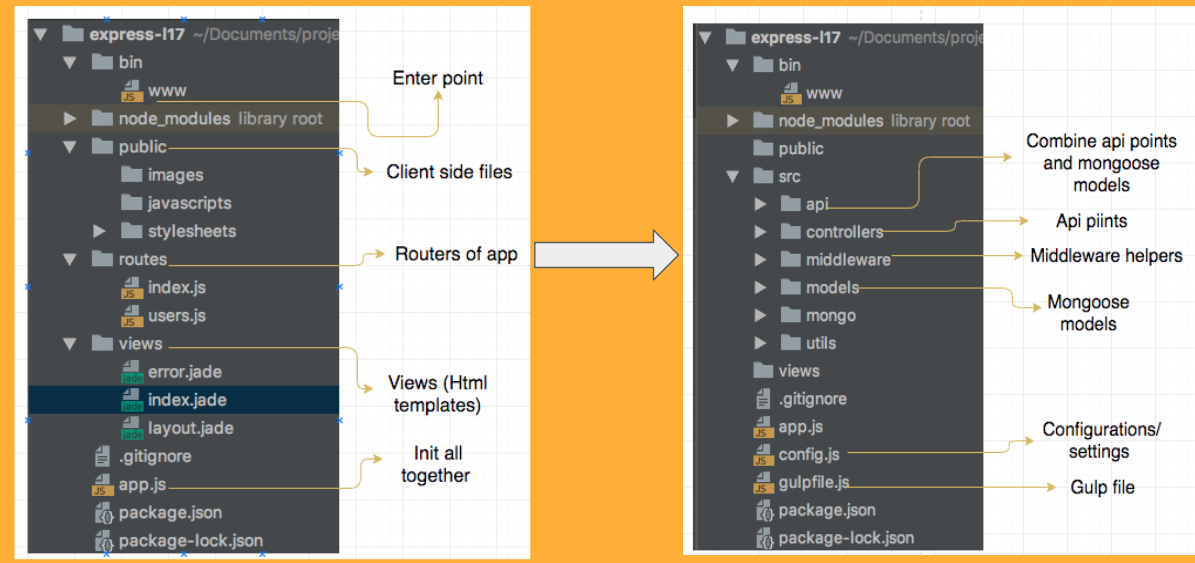
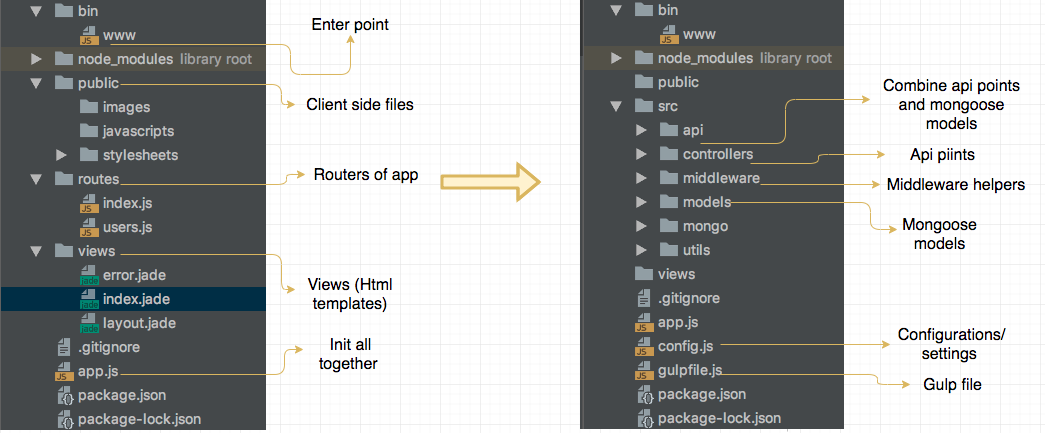
add express-boilerplate v.0.2

diff --git a/express-prof/README.md b/express-prof/README.md
@@ -1,295 +1,99 @@
-# Express Api професійно
+# Api
+Більшість свого часу програмісти прцюють із кодом проектів які зачастую розроблялися кимось до них або ж він створювався достатньо давно.  Тому часто коли приходиться пчинати проект з нуля часто виникає ряд питаня. З чого почати? Як це все заставити працювати? Чому я це повининен робити? 
+В даній статті я хотів поділитися тим як в кілька кроків настроїти boilerplate для API невеличкого forum-like application based on express
 
-[Express js](http://expressjs.com/) це чудовий фрейморк для розробки Rest Api на мові програмування java script. Він працює під управління [node js](https://nodejs.org/en/), який прекрасно підходить для додаткі обробки потоків вводу/виводу. Або ж  [rest server](https://en.wikipedia.org/wiki/Representational_state_transfer). Про те як почати писати на express js уже написано достатньо статей уроків і туторіалів. В цій статті я б хотів поділитися своїм досвідом у організаці express rest api додатку та відповісти на кілька намтупних запитань.
+## API for the forum-like application. Where should I begin?
+> This part refers to the preparation processes and where a developer should start when building a forum-like app.
 
-- Як організувати структуру rest Api?
-- Як обробляти помилки та виключення?
-- Як організувати rest запити?
+Перш за все слід обдумати функціональні вимоги поставленні перед вашим додатком. В залежності від них структура може мінятися. Наприклад чи потрібний у вашому додатку механізм авторизації чинію. Чи буде шттеграція із іншими сервісами чи ні. Всі інші додаткові функціональні вимоги типу генерації звітів (pdf, xml, csv) відправка емейлів тощо.
 
-## Структура rest api
-Розробка rest api це посуті опис шляхів (routs) за якими до вашого сервера буду звертатися клієнти а можливо інші сервіси. Тому їх організація та інтуїтивно зрозумілий опис є надзвичано важливими. Великий rest api серрвер може виконувати безліч операцій.  Велика помилка яку часто роблять розробники це створення окремих роутів на кожну операцію. Це призводить до неконтрольованого росту роутів. Але ж про ці всі роути слід знати (на що здатен сервер) іншим розробникам. Це добре якщо кожний роут задукоментований. А якщо ні це може призвести до великої путанини і великиз затрат часу на розуміння іншими  вашого api.
+- функціональні вимоги вашого додатку
+- дані якими він оперуватими 
+- методи розробки
+## Can boilerplate be perfect?  
+> We plan to unveil here code organization and folders structuring best practices. Tips (based on personal experience) with examples which others might find useful.
 
-Щоб уникнути цього та мінімізувати кількість роутів у вашому api старайтеся слідувати логіці rest. У rest є 4 основні види запитів __GET__, __POST__, __UPDAE__, __DELETE__. Старайтеся позиціонувати кожну операцію їз цими запиами. Наприклад якщо вам слід оновти якусь сутність використувуйте запити __UPDATE__ якщо удалити __DELETE__.
-Також старайтеся позиціонувати кожеш ваш роут з моделлю бізнес логіки. Нижче наведена таблиця і 5 роутів для обробки одніїє моделі бізнес логіки.
-
-| Route                   |  HTTP Verb | Description               |
-|-------------------------|------------|---------------------------|
-|`/api/v1/models/`        |__GET__     | Get list of models        |
-|`/api/v1/models/:modelId`|__GET__     | Get  model item           |
-|`/api/v1/models/`        |__POST__    | Crete model Item          |
-|`/api/v1/models/:modelId`| __PUT__    | Update model Item         |
-|`/api/v1/models/:modelId`| __DELETE__ | Remove model item         |
-
-У таблиці наведено варіанти роутів та відповідні методи, щоб забезпечити CRUD (create, read, update, delete) над певною моделлю. Дортримуючись даного підходу для кожної моделі і не створюючи додаткових роутів ви значно скоротете ваше Api та покращете його розуміння дл інших розробників.
-#### Params
-__А як же додаткові параметри?__ Припустим нам необхідно вернути список моделей відсорованих та пофільтрованих. Для цього не варто створювати додатковий роут типу `/api/v1/models/sorted/:param`. Достатньо використати __qery__ параметри. І роут матиме наступний вигляд `/api/v1/models?sort=name`. Таких параметрів можне буте набагато більше. Вони є не обовязковими тому їх використання дозволить вам обробити кілька операцій на одному роуті. Можна подумати що таку стрічку набагато важче формувати на клієнті проте ні. Як це зробити коректно я покажу нижче.
-### Code organization
-Кілька прорад для розробників по оргацізації коду.
-- починайте кожен ваш роут `/api/v1/`
- можливо у майбутньому прийдеться переписати ваше api зберігши функціональність старого на деякий час.
-- Розділяйте моделі та контроллери
-  Моделі це обєкти бізнес логіки їх слід зберігати у паці models. Контроллери містять бізнес логіку роутів пака controllers.
-- Не збивайте роути однієї модделі в один файл.
-  створіть окрему папку `modelName` для кожної сутності та для кожної операції GET, POST, DELETE створюйте окремий файл. Наприклад файл `controllers/notifications/index.js` міг мати наступний вигляд.
- ```
-const fetchNotifications = require('./fetch-notifications');
-const updateNotification = require('./update-notification');
-const removeNotification = require('./remove-notification');
-/**
-* Provide Api for Investors (user with articles)
- **/
-
-module.exports = ({ config, db }) => {
-  api.get('/', authenticate, fetchNotifications({ config, db }));
-  api.put('/:notificationId',authenticate, updateNotification({ config, db }));
-  api.delete('/:notificationId', authenticate, removeNotification({ config, db }));
-  return api;
-};
+Перш за все потрібно розробити структуру вашого boilerplate. Це можна робити вручну створюючи кожен файл. Можна використати утиліти який в інтерненті є придестатньо та змінити його для сфоїх потреб. Ми підем другим шляхом і використаємо утиліту [express-generator](http://expressjs.com/uk/starter/generator.html). Отже приступимо до розробки boilerplate for API of forum-like application. 
+__Крок 1__ Генерація структури проекту
+Установіть express-generator та створіть дерикторію вашого проекту.
 ```
-
-- Документуйте ваші контроллери.
-- Виность додатковий код  у відповідні пакпки 'utils', 'helpers'
-
-#### Documentation
-Один з найважливіших елементів розробки rest api є його документація. Оскільки таким api можуть користуватися як інші розробники (front-end, movile developres), так і інші сервіси тому їм необхідно знати як з ним взаємодіяти. Тому дотримуйтеся наступних порад.
-- __Ввизначіть для чого це Api і хто ним буде користуватися.__
-Від цього залежить конкретний тип документації. Як що це внутрішнє api проекту тоді можна документувати ваші роути як у файлах README в середені вашого репозиторію, так і у самих фйлах `controllers/model/index.js`. Нижче наведено невеликий приклад документації.
+npm install express-generator -g
+express <your-project-name>
 ```
-/**
- Provide Api for Model
+Оскільки express-generator генерує структуру яка не зовсім задовільняє наші потреби її слід дещо змінити. Нище показано наглядний приклад того які зміни слід зробити. 
+![](https://github.com/VolodymyrTymets/articles/blob/express-boilerplate/express-boilerplate/img/fig1.png?raw=true)
 
-  Model list  GET /api/v1/models
-  @header
-         Authorization: Bearer {token}
-  @optionalQueryParameters
-         param1 {String} - description
-         param2 {String} - description
-
-  Model create  POST /api/v1/models
-  @header
-         Authorization: Bearer {token}
-  @params
-         param1 {string}
-         param2 {boolean}
-**/
-```
-Якщо ж це api з яким будуть взаємодіяти інші сервіси, слід задуматися над створення повної, відсортованої та зручної у користуванні. Ось один приклад чудової документації [google calendar api](https://developers.google.com/google-apps/calendar/v3/reference/).
-
-- __Документуйте кожен свій rout.__
-  Який смисл в існуванні роута якщо про нього не знають інші. Якщо користувач вашого api не знатиме про існування того чи іншого роута він просто вирішить що у вас не має такого функціоналу. Тому документуй кожен свій роут.
-- __Документуйте роут у момент його створення__
- Не відкладайте на потім, щоб не забути про нього чи його параметри.
-
-
-## Обробка помилок
-У rest серрвера є набір загальноприйнятих [помилок](http://www.restpatterns.org/HTTP_Status_Codes), тому не варто вигадувати свої. Краще один раз написати свій обробник подій і використовувати його ніж кожному роуті займатися цим. У цьому може допомогти пакет [rest-api-errors](https://www.npmjs.com/package/rest-api-errors). Спершу слід написати загалтний обробник:
+Злівої сторони наведено boilerplate зшгенерований а з правої той який слід зробити. Давайте розглянемо структуру проекту детальніше
+ - `controllers` - тут слід зберігати всі ваші Api endpoints
+ - `models` - тут слід зберігати всі моделі даних 
+ - `api` -  тут знаходиться взаємодія ваших даних з вашими Api endpoint (детальніше нижче) 
+ - `utils` -  тут знаходиться весь допоміжний код додатку (відправка емейлів генерування pdf ets)
+ -  `middleware` -  тут знаходиться всі express middleware додатку
+ -  `mongo or db or <yourDatabaseName>` -  тут знаходиться уся робота з вашою бащою даних
+ -  `config or .env` -  усі налаштування вашого додатку краще зберігати в окремому файлі (це може бути як .js .json or .env)
+ 
+Дана структура дозволить вам зберігати ваш код в логічному порядку і дозволить швидко зорієнтуватися. своєрідним клеєм який дозволить звязати усі файли виступатими файл `app.js`
 
 ```
-const { APIError, InternalServerError, Unauthorized } = require('rest-api-errors');
-const { STATUS_CODES } = require('http');
-const winston = require('winston');
-module.exports = (err, req, res, next) => {
-  let error = err instanceof APIError ? err : new InternalServerError();
+const express = require('express');
 
-  if(process.env.NODE_ENV !== 'production') {
-    winston.log('error', '-----> Unknown server error...');
-    winston.log('error', err);
-  }
-  res
-    .status(error.status || 500)
-    .json({
-      code: error.code || 500,
-      message: error.message || STATUS_CODES[error.status],
-    });
-};
-```
+const config = require('./config');
+const api = require('./src/api/index');
+const { mongoManager } = require('./src/mongo');
 
-та використати його в exoress
-```
-const errorHandler = require('./utils/error-handler');
 const app = express();
-app.use(errorHandler);
-```
+mongoManager.connect();
 
-Тепер у любому контроллері можна просто ініційовувати помилку
-```
-const { MethodNotAllowed } = require('rest-api-errors');
+// api routes v1
+app.use('/api/v1', api(config));
 
-api.use('/account', (req, res, next) => {
-....
-if(!user) {
-  throw new Unauthorized(401, 'Unauthorized');
- }
+module.exports = app;
+```
+Тепер для запуску вашого додатку достаттно інстаювати пакети `npm i` запустити `node ./bin`. Або дописати дану команту в npm script. 
+
+## Dealing with data
+> We're planning to show here the example of how you can get access to the data, using MongoDB.
+
+Тепер настав час перейти до оголошення наших моделей. Оскільки для зберігання даних ми використовуємо [mongo](https://www.mongodb.com/) базу даних то побудуємо наші моделі за допомогою [mongoose](http://mongoosejs.com/docs/populate.html).
+> todo: структура бази даних ?
+
+Деректорія models виглядатиме наступним чином.
+
+![](https://github.com/VolodymyrTymets/articles/blob/express-boilerplate/express-boilerplate/img/fig2.png?raw=true)
+
+- `schema.js` - це схема моделі детальніше [тут](http://mongoosejs.com/docs/schematypes.html)
+- `model.js` - це саме обєднання mongoose mмоделі та схеми. Це зроблено в окремих файлах тому що mongoose надає можливість розширяти ваші моделі різними методами і хуками. Тримати усе це + схема, яка сама по собі здатна розростатися чимало, призведе до того що ваш файл займатиме 500+ строчок. А це не дуже добре.
+```
+// models/answers/model.js
+const mongoose = require('mongoose');
+const { schema } = require('./schema');
+// add hooks here
+schema.pre('save', function() {
+  return doStuff().
+    then(() => doMoreStuff());
 });
-
+const Answer = mongoose.model('Answer', schema);
+module.exports = { Answer };
 ```
+> todo: щось ще дописати 
+## What about routes? 
+> Routes structuring. Organization, documentation, and description tips and tricks.
 
-### Permission checker
-Не рідко виникає необхідність обмежувати користувачів у певних діях. Наприклад менеджери можуть мати набагато більше прав ніж прості користувачі. Далі показано як написати пройти та компачтний permission checker ось такого вигляду.
+## Routes and data together. How to not get lost
+Тепер перейдем до роутів або контроллерів. Контроллери також слід поділити у відповідності до ваших моделей так як зображено нижче.
 
-```
- import { hasPermissionTo, actions } from '../'
- api.use('/account', (req, res, next) => {
-     const user = getUser();
-     if (!hasPermissionTo(actions.GET_USER, user)) {
-        throw new MethodNotAllowed();
-     }
-});
-```
+![](https://github.com/VolodymyrTymets/articles/blob/express-boilerplate/express-boilerplate/img/fig3.png?raw=true)
 
-> де взяти обєкт user це вже залежить від типу авторизації яку ви використали детальніше [тут](http://passportjs.org/docs).
+Таким чином у деректорії `controllers` кожна підерикторія представлятиме певну модель. Кожен файл відповідно представлятиме single Api endpoint.
+![](https://github.com/VolodymyrTymets/articles/blob/express-boilerplate/express-boilerplate/img/fig4.png?raw=true)
 
-Спершу опишем усі доступні дії (їх можна буде доповнювати в майбутньому). `utils/permission-checker/constants.js`
-```
-module.exports = {
-  ALL_RIGHT: 'ALL_RIGHT',
-  GET_USER: 'GET_USER',
-};
-```
-Далі присвоїм ці дії конкретним користувачам `utils/permission-checker/permissions.js`.
-```
-const actions = require('./constants');
-module.exports = {
-  owner: [
-    actions.GET_USER,
-  ],
-  user: [],
-  admin: [
-    actions.ALL_RIGHT,
-  ],
-};
-```
-Далі створимо сам метод hasPermissionTo `utils/permission-checker/index.js`
-```
-const _ = require('lodash');
-const permissions = require('./permissions');
-const actions = require('./constants');
+Такий підхід дозволить максимально розділити код вашого апі і уникнути безглуздого зберігання усіх Api endpoints в одному файлі. Ось як виглядатиме приклад реалізації  `GET /questioms` та `GET /questioms:_id` Api endpoints.
+![](https://github.com/VolodymyrTymets/articles/blob/express-boilerplate/express-boilerplate/img/fig5.png?raw=true)
 
-const hasPermissionTo = (action, user) => {
-  const isRoleHasPermission = action => role => _.includes(permissions[role], action);
-  // get map user rolse into true false array
-  const userPermissions = user.roles.map(isRoleHasPermission(action));
+> todo: описати mongose module
 
-  if (!(userPermissions && _.includes(userPermissions, true))) {
-    return false
-  }
+## Additional recommendations you can't omit
+ - how to handle errors/bugs
+ - how to implement additional features for the app.
 
-  return true;
-};
-
-module.exports = {
-  hasPermissionTo,
-  actions,
-};
-```
-> В даному прикладі користувач має поле roles ['owner', 'user'], яке вказує до якої ролі він належить. І коли користувач входить до ролі owner яка має дозвіл GET_USER тоді hasPermissionTo верне true. Ви можете описати свою логіку метода hasPermissionTo.
-
-
-## Запити на клієнті
-Запити з клієнта можна оргпнізувати різними способами і за домомогою різних бібліотек. Але б хотілося дати кілька порад по органцізації цього процесу.
-
-- використовуйте розроблені бібіліотеки для цього такі як [axios](https://www.npmjs.com/package/axios)
-- зберігайте роути відділено від коду
-  Велика помилка прописувати шлях запиту в самому коді наприклад.
-```
-axios.get('api/v1/users', {
-    params: {}
-  })
-```
-Проблема такого підходу в тому що коли шось поміняється в Api буде тяжко шукати усі ці шляхи у коді. Краже написати певне сховиша для всіх шляхів і зберігати їх в одному місці `utils/api/urls.js`
-```
-export default {
-  USERS: '/api/v1/amazonS3/',
-};
-```
-Тереп можна використати цю константу одразу для 4 запитів
-```
-import ApiAdressses = from './utils/api/urls.js';
-axios.get(ApiAdressses.USERS);
-axios.post(ApiAdressses.USERS);
-axios.put(ApiAdressses.USERS);
-axios.delete(ApiAdressses.USERS);
-```
-- __напишіть допоміжний функціонал для взаємоді з api__
-
-Зазвичай більшість запитів крім даних містьть заголовки для авторизації, абож  qury параметри. І прописувати все це у вашому коді кожен раз не найкраща ідея.
-```
-axios({
-      url: `ApiAdressses.USERS?limit=${limit};soty${sort}`,
-      method: 'GET',
-      headers: {
-        'Authorization': 'Bearer token'
-     }
-    });
-
-//    or
-
-axios({
-      url: `ApiAdressses.USERS`,
-      method: 'POST',
-      headers: {
-        'Authorization': 'Bearer token'
-        'Content-Type' : 'multipart/form-data'
-     }
-    });
-```
-
-Краще написати чотири методи використання яких виглядатиме наступним чином
-```
-import { get, post, put, remove, query, APIAddresses } from './utils/api';
-
-const response = await get(`APIAddresses.USERS${query({ limit, sort })}`);
-const response = await post(`APIAddresses.USERS`, formData);
-const response = await put(`APIAddresses.USERS/${userId}`, formData);
-const response = await remove(`APIAddresses.USERS/${userId}`);
-```
-
-Методи get, post, put, remove обгортки одного метода `makeRequest` створенне ні для зручності використання. Метод query формує стрічку query з вжідних параметрів.
-```
-import axios from 'axios';
-import APIAddresses from './urls';
-
-const makeRequest = async (type, url, data) => {
-  try {
-  const response =  await axios({
-      url,
-      data,
-      method: type,
-      headers:
-        'Authorization': getTokenHeaderValue(),
-        'Content-Type' : 'multipart/form-data'
-      }
-    });
-    return response;
-  } catch (error) {
-    if(process.env.NODE_ENV !== 'production') {
-      console.log(`Error: [${type}] - ${url}`);
-      console.log(error);
-    }
-    return error;
-  }
-};
-
-const get = url =>  makeRequest('get', url, null);
-const post = (url, data) => makeRequest('post', url, data);
-const put = (url, data) =>  makeRequest('put', url, data);
-const remove = url => makeRequest('delete', url, null);
-const query = data => `?${Object.keys(data).map(key => `${key}=${data[key]}`).join('&')}`;
-
-export { APIAddresses, get, post, put, remove, query, postFile };
-
-```
-> APIAddresses імпортований і експортований для зручності використання що імпортувати все з одного джерела
-
-Організувавши логіку запитів таким чином ви позбудетеся лишнього коду та покращете розуміння вашого коду для інших розробників. Також при зміні чи переході на нову версію api вам достатньо змінити шляхи  в одному файлі.
-
-# Підсумок
-
-Кожен проект може бути різним і у кожного свої потреби. Не завжди полуситться в ідеальному дотримуватися якигось шаблонів, проте старайтеся дотримуватися порад поданій у цій статті.
-
-- Дотримутесф логіки rest
-- Організуйте ваше api (роути, обробку подійб права доступу)
-- Докумнтуйте ваше api
-- Організуйте ваші запити для уникнення дублюваннякоду.
-
-Організація вашоко rest api скорить час розробки, покращить розуміння іншими розробниками того що ви робити та значно спростить супровід.
+## Sumarry
